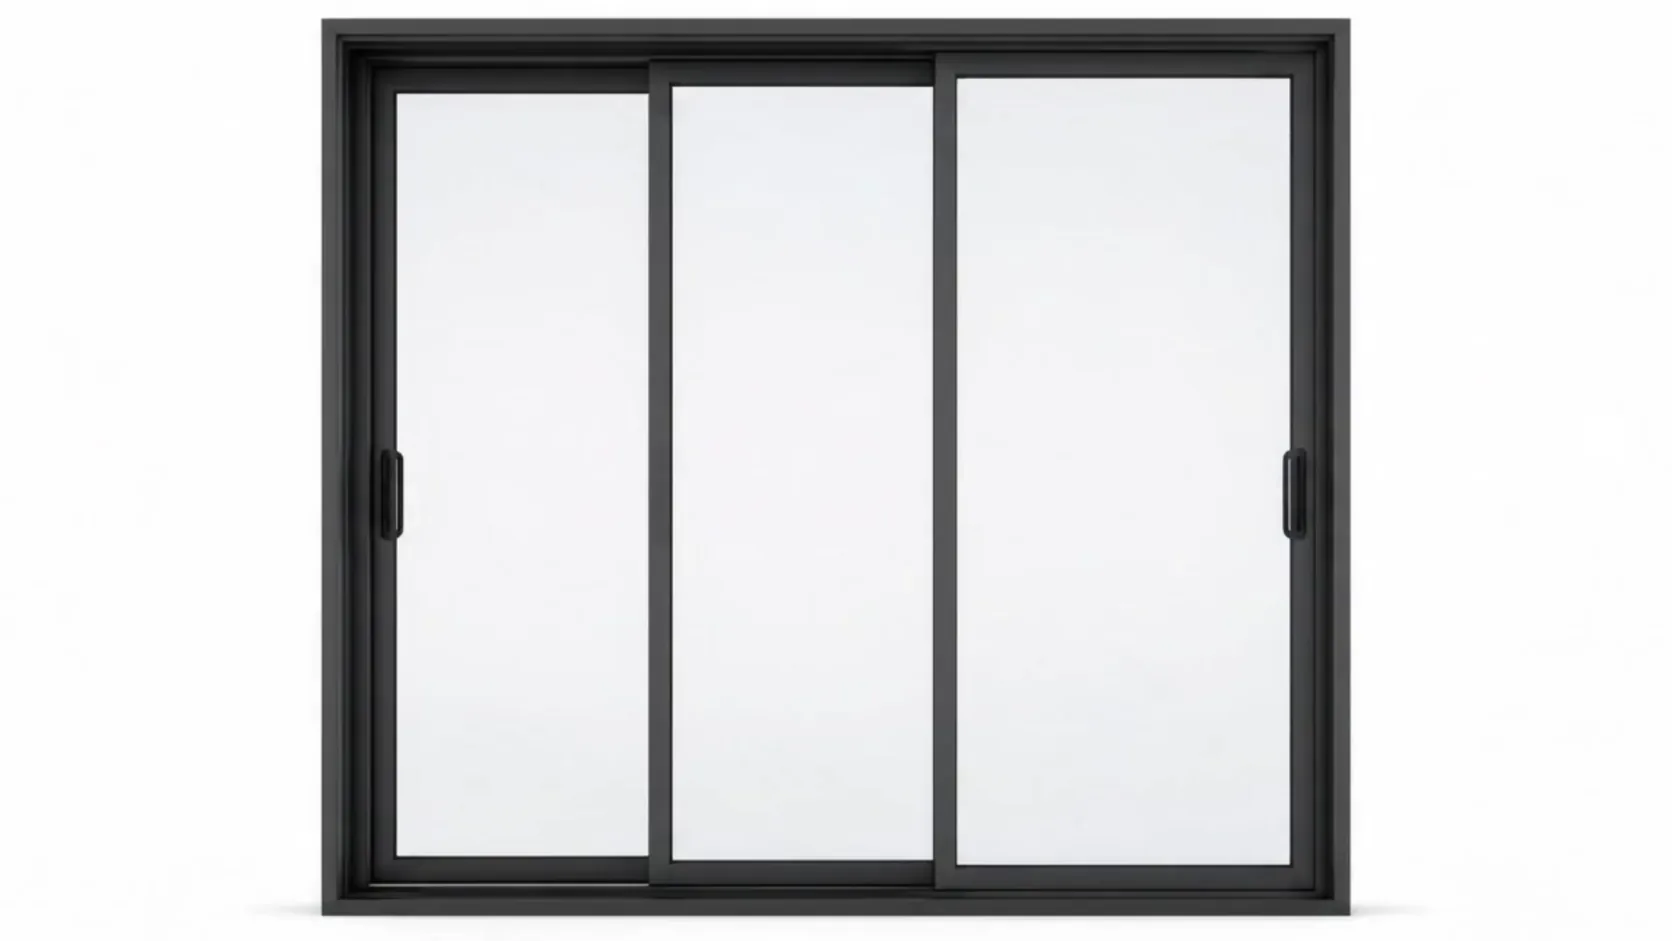
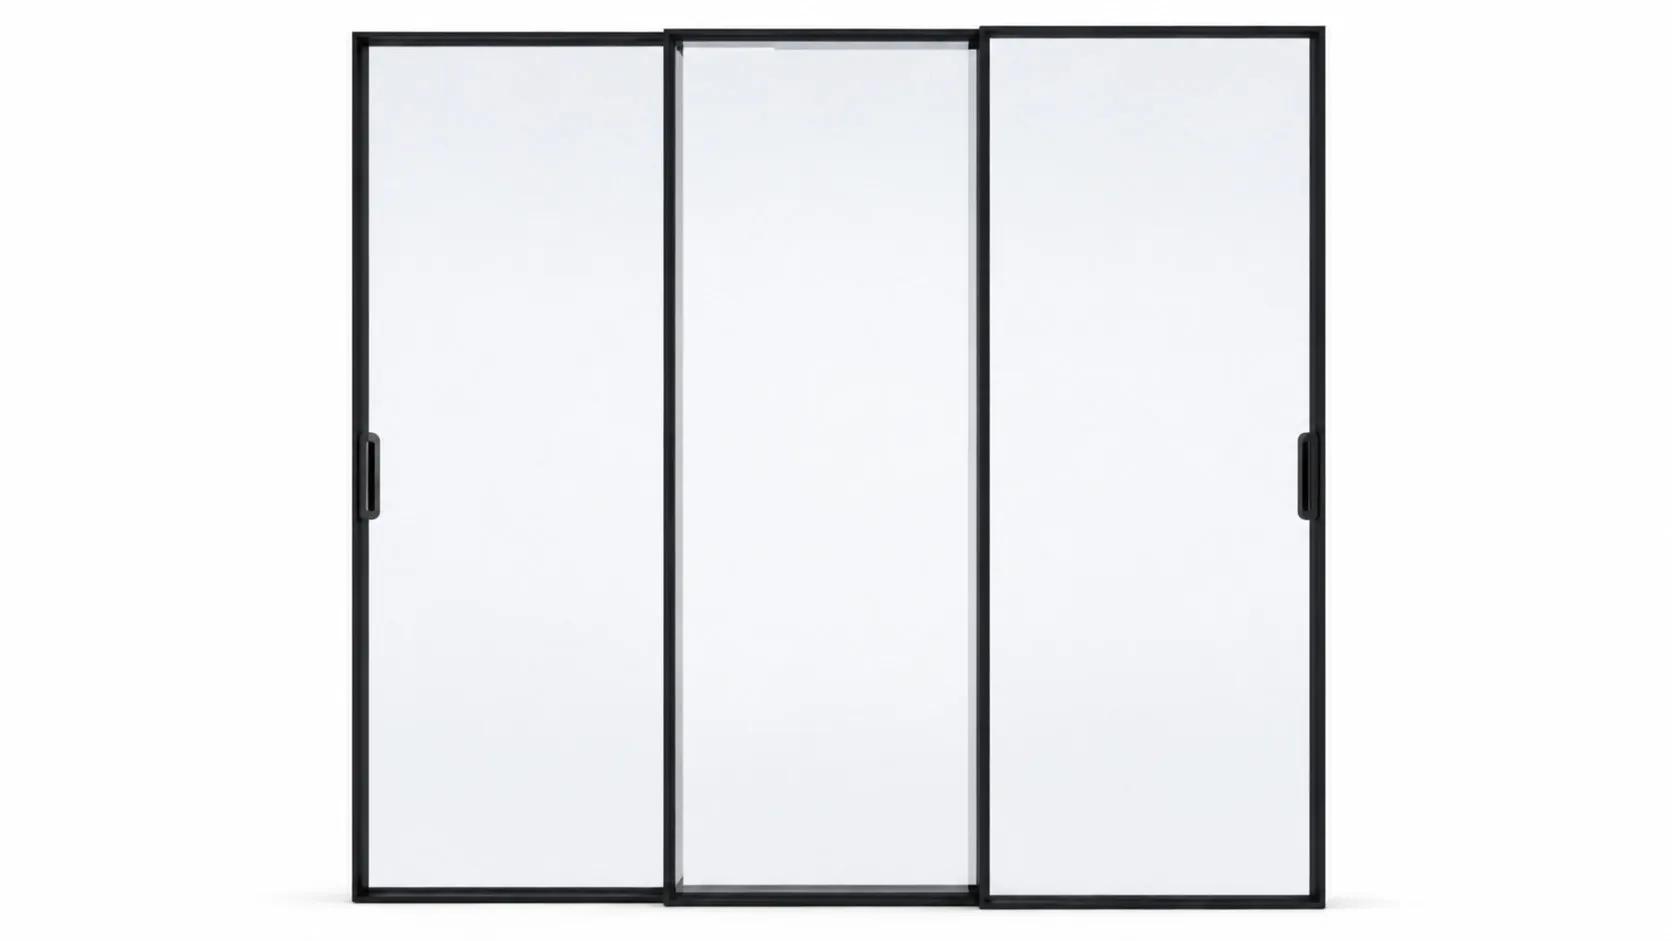
feat(slim-door): swap render to client 3P sliding image and drop the hover animation

Changed region(s): [[0.1866, 0.0, 0.8086, 0.9862]]

diff --git a/src/test/data-integrity.test.ts b/src/test/data-integrity.test.ts
@@ -273,10 +273,11 @@ describe("Aug 12 door additions (fixed-slide-door, slim-door)", () => {
     // MEETING_2026-08-12 §8 left the swing-or-slide question open. This test
     // asserted "swing" from 2026-08-12, on the Aug-12 render. It was inverted on
     // 2026-09-03: two client-supplied sources say slide — the "SlimDoor Chi"
-    // clips behind SlimDoorSpotlight.tsx, and the "3P SLIDING" clip that is now
-    // both the card image and the hover animation. The guard is kept, pointed
-    // the other way, so the card cannot drift back to a swing claim while the
-    // homepage spotlight and the hover animation both show panels sliding.
+    // clips behind SlimDoorSpotlight.tsx, and the "3P SLIDING" clip that became
+    // the card image. On 2026-09-04 the client supplied a new static render;
+    // the hover animation was removed. The guard is kept, pointed the other way,
+    // so the card cannot drift back to a swing claim while the homepage spotlight
+    // still shows panels sliding.
     const product = products.find((p) => p.id === "slim-door")!;
     const copy = `${product.description} ${product.specs.join(" ")}`;
     expect(copy).toMatch(/slid(e|ing)/i);
@@ -305,10 +306,10 @@ describe("hover animations resolve to frames on disk", () => {
   // 2026-08-16: reconciled against the actual systemAnimations.ts ANIMATED map.
   // Added: louvre, automated-window (both registered + 28 frames on disk).
   // Added: sliding-casement-door (renamed from sc-door, assets git-mv'd).
-  // 2026-09-03: slim-door added, closing the drift the 2026-08-16 pass reported
-  //   as outstanding. It had 25 orphan frames on disk and no ANIMATED entry, so
-  //   nothing read them. Re-imported from the client's "3P SLIDING" clip at the
-  //   full 28 and registered, so it is now covered here like every other id.
+  // 2026-09-03: slim-door added (re-imported from client "3P SLIDING" clip).
+  // 2026-09-04: slim-door removed. Client supplied a new static render image;
+  //   the hover animation is intentionally dropped. slim-door is not in
+  //   ANIMATED_ID — its card is static.
   const ANIMATED_ID = [
     "casement",
     "sliding",
@@ -324,7 +325,6 @@ describe("hover animations resolve to frames on disk", () => {
     "automated-window",
     "sliding-casement-door",
     "automated-door",
-    "slim-door",
   ] as const;
 
   it.each(ANIMATED_ID)("%s has every frame it claims", (id) => {

diff --git a/src/data/systemAnimations.ts b/src/data/systemAnimations.ts
@@ -88,12 +88,6 @@ const REVERSED = new Set(["automated-window"]);
  * then both swinging out — so it replaced the GLB render rather than being
  * re-routed the way the first clip was. The awning entry above stands.
  *
- * slim-door is listed for provenance only — it has no GLB and so no MODEL_FOR
- * entry, and a bake run cannot reach it. Its frames come from the client's
- * "3P SLIDING" clip (2026-09-03), which is also the source of the card image;
- * see the slim-door entry in src/data/products.ts for why that clip settled
- * the mechanism.
- *
  * louvre joined on 2026-09-03. The GLB render it replaced was a tall single
  * panel whose bare blades all but vanished against the white ground even at
  * the raised 0.42 glass opacity. The supplied clip is a two-panel unit with
@@ -106,7 +100,6 @@ const IMPORTED = new Set([
   "casement",
   "casement-door",
   "automated-door",
-  "slim-door",
   "louvre",
 ]);
 
@@ -131,7 +124,6 @@ const ANIMATED: Record<string, number> = {
   "automated-window": FRAME_COUNT,
   "sliding-casement-door": FRAME_COUNT,
   "automated-door": FRAME_COUNT,
-  "slim-door": FRAME_COUNT,
 };
 
 export interface SystemAnimation {
